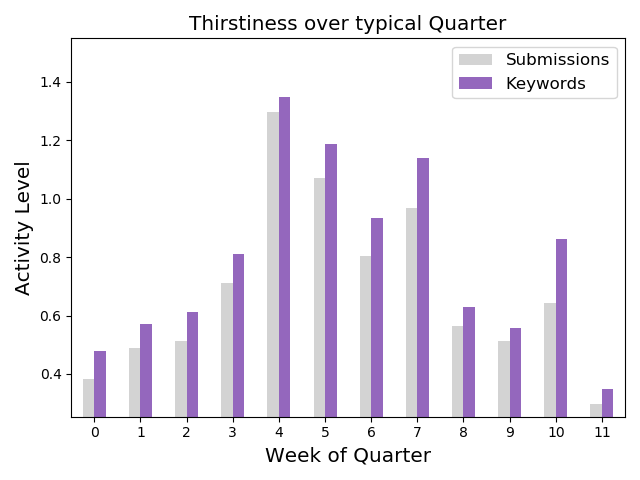
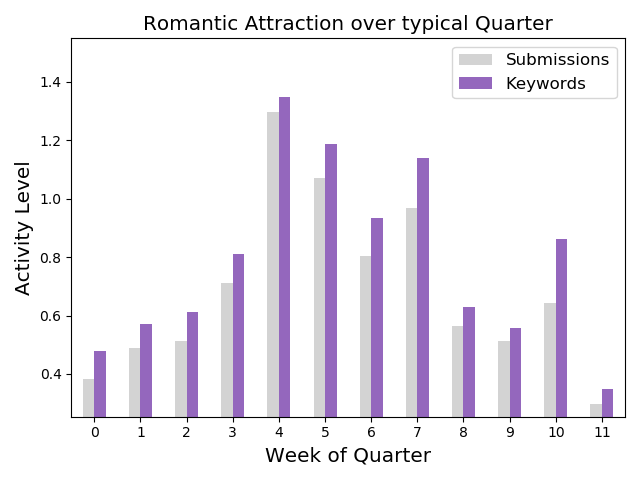
with plots

Changed region(s): [[0.2188, 0.0312, 0.875, 0.0625]]

diff --git a/main.py b/main.py
@@ -113,12 +113,12 @@ if __name__ == "__main__":
   print(df)
 
   # plot overall histograms
-  # plot_weekday_dist(df)
-  # plot_hourly_dist(df)
+  plot_weekday_dist(df)
+  plot_hourly_dist(df)
 
   # plot total submissions over time
-  # dist = submissions_over_time(df)
-  '''
+  dist = submissions_over_time(df)
+  # '''
   # plot hourly distribution for different parts of the quarter
   hist_comb = hist_hourly_quarter_edges(df, calendar, 3)
   plot_custom(hist_comb, 'line', 
@@ -132,7 +132,7 @@ if __name__ == "__main__":
                 title='Hourly Submissions Over the Weekdays', 
                 file='hist_hourly_weekday_weeked', xlabel='Hour', ylabel='Count',
                 colors=['tab:red', 'tab:green'])
-  '''
+  # '''
   # sentiment analysis
   # df_sentiment_total = load_data(['sentiment_analysis.csv'])
   # quarter_spans = list(map(get_quarter_start_end, calendar))
@@ -150,7 +150,7 @@ if __name__ == "__main__":
 
   thirst_words = load_corpus('thirst_corpus.txt')
   df_result = keywords_over_quarters(thirst_words, calendar, df, 
-    title='Thirstiness over typical Quarter', 
+    title='Romantic Attraction over typical Quarter', 
     file='plot_thirst',
     colors=['lightgrey', 'tab:purple'])
   df_collection.append( ('Thirstiness', df_result) )
